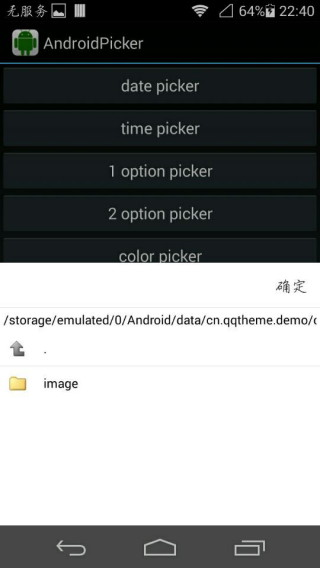
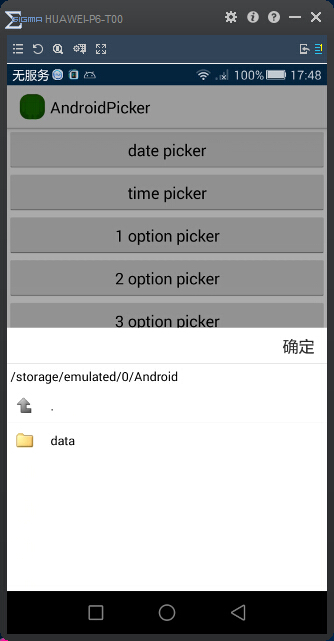
改代码布局为XML布局，可视化方便修改；更新效果图

diff --git a/framework-picker/src/main/java/cn/qqtheme/framework/popup/ConfirmPopup.java b/framework-picker/src/main/java/cn/qqtheme/framework/popup/ConfirmPopup.java
@@ -1,15 +1,13 @@
 package cn.qqtheme.framework.popup;
 
 import android.app.Activity;
-import android.graphics.Color;
-import android.view.Gravity;
+import android.view.LayoutInflater;
 import android.view.View;
-import android.view.ViewGroup;
 import android.widget.Button;
+import android.widget.FrameLayout;
 import android.widget.LinearLayout;
-import android.widget.RelativeLayout;
 
-import cn.qqtheme.framework.helper.Common;
+import cn.qqtheme.framework.picker.R;
 
 /**
  * 带确定及取消按钮的
@@ -18,16 +16,18 @@ import cn.qqtheme.framework.helper.Common;
  * @since 2015/10/21
  * Created By Android Studio
  */
-public abstract class ConfirmPopup<V extends View> extends BasePopup<LinearLayout> implements View.OnClickListener {
+public abstract class ConfirmPopup<V extends View> extends BasePopup<View> implements View.OnClickListener {
     protected static final String TAG_SUBMIT = "submit";
     protected static final String TAG_CANCEL = "cancel";
     private boolean cancelVisible = true;
-    private CharSequence cancelText = "取消";
-    private CharSequence submitText = "确定";
+    private CharSequence cancelText;
+    private CharSequence submitText;
     private OnConfirmListener onConfirmListener;
 
     public ConfirmPopup(Activity activity) {
         super(activity);
+        cancelText = activity.getString(android.R.string.cancel);
+        submitText = activity.getString(android.R.string.ok);
     }
 
     protected abstract V initContentView();
@@ -45,53 +45,69 @@ public abstract class ConfirmPopup<V extends View> extends BasePopup<LinearLayou
     }
 
     @Override
-    protected LinearLayout getView() {
-        LinearLayout rootLayout = new LinearLayout(activity);
-        rootLayout.setLayoutParams(new LinearLayout.LayoutParams(MATCH_PARENT, MATCH_PARENT));
-        rootLayout.setBackgroundColor(Color.WHITE);
-        rootLayout.setOrientation(LinearLayout.VERTICAL);
-        rootLayout.setGravity(Gravity.CENTER);
-        rootLayout.setPadding(0, 0, 0, 0);
-        rootLayout.setClipToPadding(false);
-        RelativeLayout topButtonLayout = new RelativeLayout(activity);
-        topButtonLayout.setLayoutParams(new RelativeLayout.LayoutParams(MATCH_PARENT, Common.toPx(activity, 40)));
-        topButtonLayout.setBackgroundColor(Color.WHITE);
-        topButtonLayout.setGravity(Gravity.CENTER_VERTICAL);
-        Button cancelButton = new Button(activity);
+    protected View getView() {
+//        LinearLayout rootLayout = new LinearLayout(activity);
+//        rootLayout.setLayoutParams(new LinearLayout.LayoutParams(MATCH_PARENT, MATCH_PARENT));
+//        rootLayout.setBackgroundColor(Color.WHITE);
+//        rootLayout.setOrientation(LinearLayout.VERTICAL);
+//        rootLayout.setGravity(Gravity.CENTER);
+//        rootLayout.setPadding(0, 0, 0, 0);
+//        rootLayout.setClipToPadding(false);
+//        RelativeLayout topButtonLayout = new RelativeLayout(activity);
+//        topButtonLayout.setLayoutParams(new RelativeLayout.LayoutParams(MATCH_PARENT, Common.toPx(activity, 40)));
+//        topButtonLayout.setBackgroundColor(Color.WHITE);
+//        topButtonLayout.setGravity(Gravity.CENTER_VERTICAL);
+//        Button cancelButton = new Button(activity);
+//        if (cancelVisible) {
+//            cancelButton.setVisibility(View.VISIBLE);
+//        } else {
+//            cancelButton.setVisibility(View.GONE);
+//        }
+//        cancelButton.setTag(TAG_CANCEL);
+//        RelativeLayout.LayoutParams cancelButtonLayoutParams = new RelativeLayout.LayoutParams(WRAP_CONTENT, WRAP_CONTENT);
+//        cancelButtonLayoutParams.addRule(RelativeLayout.ALIGN_PARENT_LEFT, RelativeLayout.TRUE);
+//        cancelButtonLayoutParams.addRule(RelativeLayout.CENTER_VERTICAL, RelativeLayout.TRUE);
+//        cancelButton.setLayoutParams(cancelButtonLayoutParams);
+//        cancelButton.setBackgroundColor(Color.TRANSPARENT);
+//        cancelButton.setGravity(Gravity.CENTER);
+//        cancelButton.setText(cancelText);
+//        cancelButton.setTextColor(Common.toColorStateList(Color.BLACK, Color.BLUE));
+//        cancelButton.setOnClickListener(this);
+//        topButtonLayout.addView(cancelButton);
+//        Button submitButton = new Button(activity);
+//        submitButton.setTag(TAG_SUBMIT);
+//        RelativeLayout.LayoutParams submitButtonLayoutParams = new RelativeLayout.LayoutParams(WRAP_CONTENT, WRAP_CONTENT);
+//        submitButtonLayoutParams.addRule(RelativeLayout.ALIGN_PARENT_RIGHT, RelativeLayout.TRUE);
+//        submitButtonLayoutParams.addRule(RelativeLayout.CENTER_VERTICAL, RelativeLayout.TRUE);
+//        submitButton.setLayoutParams(submitButtonLayoutParams);
+//        submitButton.setBackgroundColor(Color.TRANSPARENT);
+//        submitButton.setGravity(Gravity.CENTER);
+//        submitButton.setText(submitText);
+//        submitButton.setTextColor(Common.toColorStateList(Color.BLACK, Color.BLUE));
+//        submitButton.setOnClickListener(this);
+//        topButtonLayout.addView(submitButton);
+//        rootLayout.addView(topButtonLayout);
+//        View lineView = new View(activity);
+//        lineView.setLayoutParams(new ViewGroup.LayoutParams(MATCH_PARENT, Common.toPx(activity, 1)));
+//        lineView.setBackgroundColor(0xDDDDDDDD);
+//        rootLayout.addView(lineView);
+//        rootLayout.addView(initContentView());
+        View rootLayout = LayoutInflater.from(activity).inflate(R.layout.popup_confirm, null);
+        Button cancelButton = (Button) rootLayout.findViewById(R.id.popup_cancel);
+        cancelButton.setOnClickListener(this);
         if (cancelVisible) {
             cancelButton.setVisibility(View.VISIBLE);
         } else {
             cancelButton.setVisibility(View.GONE);
         }
-        cancelButton.setTag(TAG_CANCEL);
-        RelativeLayout.LayoutParams cancelButtonLayoutParams = new RelativeLayout.LayoutParams(WRAP_CONTENT, WRAP_CONTENT);
-        cancelButtonLayoutParams.addRule(RelativeLayout.ALIGN_PARENT_LEFT, RelativeLayout.TRUE);
-        cancelButtonLayoutParams.addRule(RelativeLayout.CENTER_VERTICAL, RelativeLayout.TRUE);
-        cancelButton.setLayoutParams(cancelButtonLayoutParams);
-        cancelButton.setBackgroundColor(Color.TRANSPARENT);
-        cancelButton.setGravity(Gravity.CENTER);
         cancelButton.setText(cancelText);
-        cancelButton.setTextColor(Common.toColorStateList(Color.BLACK, Color.BLUE));
-        cancelButton.setOnClickListener(this);
-        topButtonLayout.addView(cancelButton);
-        Button submitButton = new Button(activity);
-        submitButton.setTag(TAG_SUBMIT);
-        RelativeLayout.LayoutParams submitButtonLayoutParams = new RelativeLayout.LayoutParams(WRAP_CONTENT, WRAP_CONTENT);
-        submitButtonLayoutParams.addRule(RelativeLayout.ALIGN_PARENT_RIGHT, RelativeLayout.TRUE);
-        submitButtonLayoutParams.addRule(RelativeLayout.CENTER_VERTICAL, RelativeLayout.TRUE);
-        submitButton.setLayoutParams(submitButtonLayoutParams);
-        submitButton.setBackgroundColor(Color.TRANSPARENT);
-        submitButton.setGravity(Gravity.CENTER);
-        submitButton.setText(submitText);
-        submitButton.setTextColor(Common.toColorStateList(Color.BLACK, Color.BLUE));
+        cancelButton.setTag(TAG_CANCEL);
+        Button submitButton = (Button) rootLayout.findViewById(R.id.popup_ok);
         submitButton.setOnClickListener(this);
-        topButtonLayout.addView(submitButton);
-        rootLayout.addView(topButtonLayout);
-        View lineView = new View(activity);
-        lineView.setLayoutParams(new ViewGroup.LayoutParams(MATCH_PARENT, Common.toPx(activity, 1)));
-        lineView.setBackgroundColor(0xDDDDDDDD);
-        rootLayout.addView(lineView);
-        rootLayout.addView(initContentView());
+        submitButton.setText(submitText);
+        submitButton.setTag(TAG_SUBMIT);
+        FrameLayout layout = (FrameLayout) rootLayout.findViewById(R.id.popup_content);
+        layout.addView(initContentView());
         return rootLayout;
     }
 

diff --git a/framework-picker/src/main/java/cn/qqtheme/framework/popup/BasePopup.java b/framework-picker/src/main/java/cn/qqtheme/framework/popup/BasePopup.java
@@ -97,10 +97,6 @@ public abstract class BasePopup<V extends View> extends PopupWindow {
         activity.getWindow().setAttributes(layoutParams);
     }
 
-    /**
-     * Use {@link #showAtBottom()} instead
-     */
-    @Deprecated
     @Override
     public final void showAtLocation(View parent, int gravity, int x, int y) {
         onShowPrepare();
@@ -110,30 +106,18 @@ public abstract class BasePopup<V extends View> extends PopupWindow {
         super.showAtLocation(parent, gravity, x, y);
     }
 
-    /**
-     * Use {@link #showAtBottom()} instead
-     */
-    @Deprecated
     @Override
     public final void showAsDropDown(View anchor) {
         onShowPrepare();
         super.showAsDropDown(anchor);
     }
 
-    /**
-     * Use {@link #showAtBottom()} instead
-     */
-    @Deprecated
     @Override
     public final void showAsDropDown(View anchor, int xoff, int yoff) {
         onShowPrepare();
         super.showAsDropDown(anchor, xoff, yoff);
     }
 
-    /**
-     * Use {@link #showAtBottom()} instead
-     */
-    @Deprecated
     @Override
     public final void showAsDropDown(View anchor, int xoff, int yoff, int gravity) {
         onShowPrepare();

diff --git a/framework-picker/src/main/java/cn/qqtheme/framework/adapter/AdapterHelper.java b/framework-picker/src/main/java/cn/qqtheme/framework/adapter/AdapterHelper.java
@@ -192,35 +192,6 @@ public class AdapterHelper {
     }
 
     /**
-     * Will download an image from a URL or load an image from a path and put it in an ImageView.<br/>
-     * Modified by liyujiang at 2015.08.01
-     *
-     * @param viewId   The view id.
-     * @param imageUrl The image URL.
-     * @return The AdapterHelper for chaining.
-     */
-    public AdapterHelper setImageUri(int viewId, String imageUrl) {
-        ImageView view = retrieveView(viewId);
-        //ImageLoader.getInstance(context).loadBitmap(imageUrl, view);
-        return this;
-    }
-
-    /**
-     * Add by liyujiang at 2015.08.01
-     *
-     * @param viewId
-     * @param imageUrl
-     * @param maxWidth
-     * @param maxHeight
-     * @return
-     */
-    public AdapterHelper setImageUri(int viewId, String imageUrl, int maxWidth, int maxHeight) {
-        ImageView view = retrieveView(viewId);
-        //ImageLoader.getInstance(context).loadBitmap(imageUrl, view, maxWidth, maxHeight);
-        return this;
-    }
-
-    /**
      * Add an action to set the alpha of a view. Can be called multiple times.
      * Alpha between 0-1.
      */

diff --git a/framework-picker/src/main/java/cn/qqtheme/framework/adapter/IconTextAdapter.java b/framework-picker/src/main/java/cn/qqtheme/framework/adapter/IconTextAdapter.java
@@ -54,8 +54,6 @@ public class IconTextAdapter<T extends IconText> extends BeanAdapter<T> {
                 helper.setImageBitmap(getIconViewId(), (Bitmap) data);
             } else if (data instanceof Drawable) {
                 helper.setImageDrawable(getIconViewId(), (Drawable) data);
-            } else if (data instanceof String) {
-                helper.setImageUri(getIconViewId(), data.toString());
             } else {
                 Integer resId = (Integer) data;
                 if (resId == IconText.NO_ICON) {

diff --git a/framework-picker/src/main/java/cn/qqtheme/framework/Config.java b/framework-picker/src/main/java/cn/qqtheme/framework/Config.java
@@ -1,5 +1,7 @@
 package cn.qqtheme.framework;
 
+import cn.qqtheme.framework.picker.BuildConfig;
+
 /**
  * 框架配置
  *
@@ -8,6 +10,6 @@ package cn.qqtheme.framework;
  *          Created By IntelliJ IDEA
  */
 public class Config {
-    public static final boolean DEBUG_ENABLE = true;// 是否调试模式
+    public static final boolean DEBUG_ENABLE = BuildConfig.DEBUG;// 是否调试模式
     public static final String DEBUG_TAG = "liyujiang";// LogCat的标记
 }

diff --git a/app/src/main/java/cn/qqtheme/androidpicker/MainActivity.java b/app/src/main/java/cn/qqtheme/androidpicker/MainActivity.java
@@ -58,7 +58,7 @@ public class MainActivity extends Activity {
         picker.setOnWheelListener(new WheelPicker.OnWheelListener<Date>() {
             @Override
             public void onSubmit(Date result) {
-                showToast(result.toLocaleString());
+                showToast(result.getHours() + ":" + result.getMinutes());
             }
         });
         picker.showAtBottom();

diff --git a/README.md b/README.md
@@ -1,4 +1,4 @@
-# About
+# Summary
 安卓选择器类库，包括日期时间选择器、一二三级联动选择器、城市选择器、颜色选择器、文件目录选择器、数字选择器。
 Picker for android, include date&amp;time/option/color/file&amp;directory/number.
 
@@ -13,12 +13,13 @@ dependencies {
 }
 ```   
 注：
+gradle为1.3.0，buildTools为23.0.1，sdk为23。
 滑轮选择器的名称较长时，将以“...”显示超出的部分。      
-支持android2.2+，项目编码为UTF-8。   
+支持android2.2+，项目编码为UTF-8。
 
-# Simple
+# Sample
 日期选择器：   
-```java
+```java   
         DateTimePicker picker = new DateTimePicker(this);
         picker.setMode(DateTimePicker.Mode.YEAR_MONTH_DAY);
         picker.setRange(1990, 2015);
@@ -33,7 +34,7 @@ dependencies {
 ```
 
 时间选择器：   
-```java
+```java   
         DateTimePicker picker = new DateTimePicker(this);
         picker.setMode(DateTimePicker.Mode.HOUR_MINUTE);
         picker.setOnWheelListener(new WheelPicker.OnWheelListener<Date>() {
@@ -46,7 +47,7 @@ dependencies {
 ```
 
 单项选择器（可用于性别、学历、职业等选择）：   
-```java
+```java   
         OptionPicker picker = new OptionPicker(this);
         picker.setScrollingDuration(100);
         final String[] sex = {"男", "女", "保密"};
@@ -62,7 +63,7 @@ dependencies {
 ```
 
 二级联动选择器：   
-```java
+```java   
         final ArrayList<String> option1 = new ArrayList<String>();
         option1.add("技术方案");
         option1.add("开发工具");
@@ -100,7 +101,7 @@ dependencies {
 ```
 
 三级联动选择器(参见城市选择器@CityPicker)：
-```java
+```java   
         final ArrayList<String> option1 = new ArrayList<String>();
         option1.add("贵州省");
         option1.add("北京市");
@@ -147,7 +148,7 @@ dependencies {
 ```
 
 颜色选择器：
-```java
+```java   
         ColorPicker picker = new ColorPicker(this);
         picker.setInitColor(0xDD00DD);
         picker.setOnColorPickListener(new ColorPicker.OnColorPickListener() {
@@ -160,7 +161,7 @@ dependencies {
 ```
 
 文件选择器：
-```java
+```java   
         FilePicker picker = new FilePicker(this);
         picker.setMode(FilePicker.Mode.File);
         picker.setShowHideDir(false);
@@ -176,7 +177,7 @@ dependencies {
 ```
 
 目录选择器：
-```java
+```java   
         FilePicker picker = new FilePicker(this);
         picker.setMode(FilePicker.Mode.Directory);
         picker.setOnFilePickListener(new FilePicker.OnFilePickListener() {
@@ -188,7 +189,7 @@ dependencies {
         picker.showAtBottom();
 ```
 数字选择器(可用于身高、体重、年龄等选择)：
-```java
+```java   
         NumberPicker picker = new NumberPicker(this);
         picker.setRange(145, 200);
         picker.setSelectedNumber(172);
@@ -202,7 +203,7 @@ dependencies {
         picker.showAtBottom();
 ```
 城市选择器：
-```java
+```java   
         CityPicker picker = new CityPicker(activity);
         picker.setSelectedCity("贵州", "毕节", "纳雍");
         picker.setOnCityPickListener(new CityPicker.OnCityPickListener() {
@@ -228,7 +229,6 @@ https://github.com/alibaba/fastjson<br />
 ![时间选择器效果图](/screenshots/timepicker.jpg)   
 ![单项选择器效果图](/screenshots/1optionpicker.jpg)   
 ![二级联动选择器效果图](/screenshots/2optionpicker.jpg)   
-![三级联动选择器效果图](/screenshots/3optionpicker.jpg)   
 ![颜色选择器效果图](/screenshots/colorpicker.jpg)   
 ![文件选择器效果图](/screenshots/filepicker.jpg)   
 ![目录选择器效果图](/screenshots/dirpicker.jpg)   
